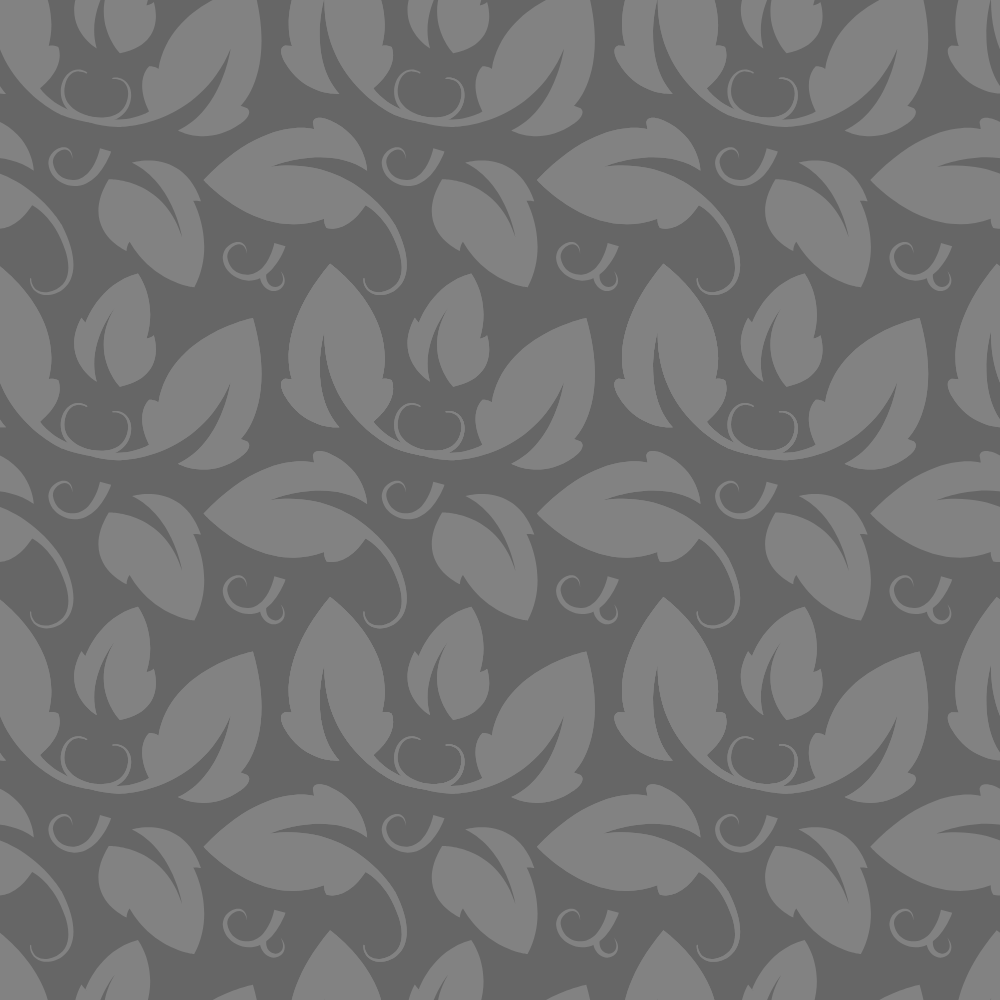
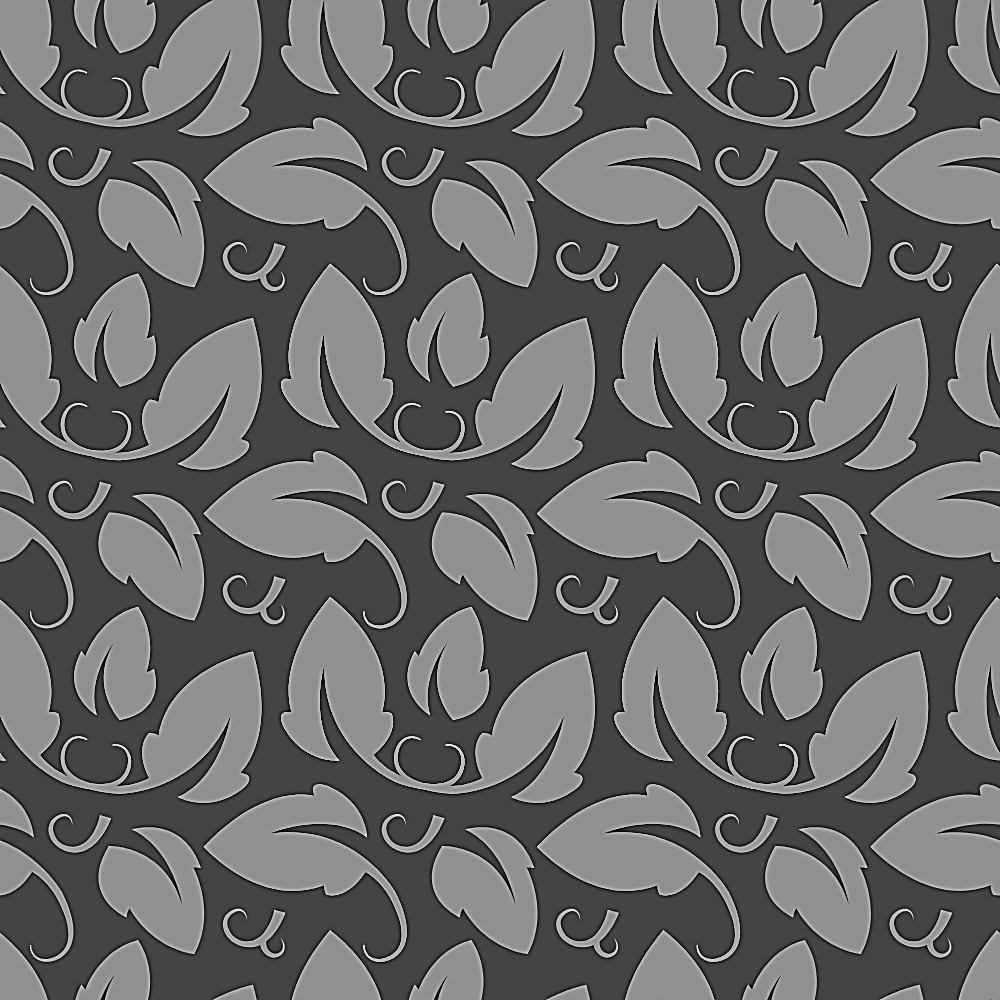
stronger glows

diff --git a/src/app.css b/src/app.css
@@ -173,10 +173,10 @@ html, body {
     left: 0;
     width: 100%;
     height: 100%;
-    border-radius: 5px;
     background: #00000060;
     outline: 1px solid #ffffff80;
     border: 1px solid #00000080;
+    box-sizing: border-box;
 
     pointer-events: none;
 }
@@ -189,7 +189,10 @@ html, body {
 }
 
 .card:hover .card-border.portfolio {
-    box-shadow: 0 0 20px rgb(0, 128, 255);
+    box-shadow:
+        0 0 20px rgb(0, 128, 255),
+        0 0 40px rgb(0, 128, 255)
+        ;
 }
 
 .card-border.mentoring {
@@ -199,7 +202,9 @@ html, body {
     border-image: linear-gradient(135deg, #ff47f3 0%, #304cff 100%) 1;}
 
 .card:hover .card-border.mentoring {
-    box-shadow: 0 0 20px color-mix(in srgb, #ff47f3 50%, #304cff 50%);
+    --mid-purple: color-mix(in srgb, #ff47f3 50%, #304cff 50%);
+    box-shadow: 0 0 20px var(--mid-purple),
+                0 0 40px var(--mid-purple);
 }
 
 .card:hover .card-border {
@@ -211,6 +216,7 @@ html, body {
 /* Card hover effects */
 .card-border:hover {
     background: rgba(20, 30, 55, 0.8);
+    outline: 0px solid transparent;
     transform: translateY(-8px);
 }
 
